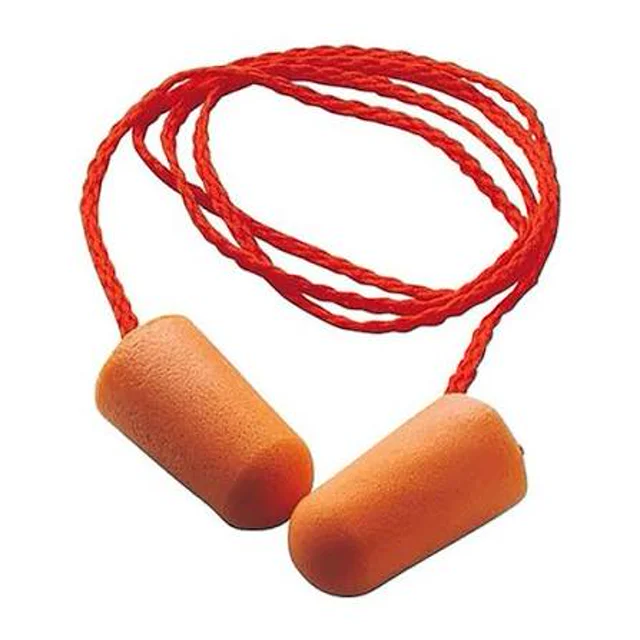
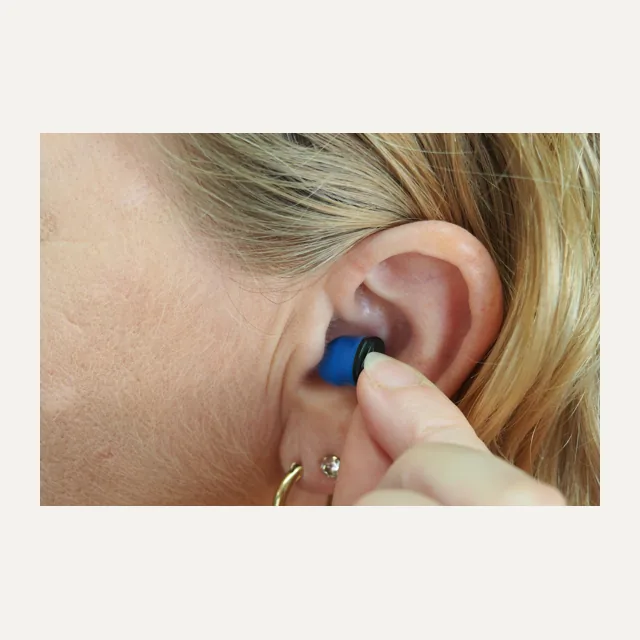
feat(catalog-images): apply the owner's photos to the AUD-004 and LUV-004 variants
Owner-reported: 'the ear plug (moldable) and split-leather gloves images are not showing, and I sent you the images'. Diagnosis: the owner's photos (Lote 2) were only applied to the base products (EPI-LUV-002, AUD-001); AUD-004 had a Pexels foam-plug-with-cord photo that contradicts 'moldable' and LUV-004 had a yellow synthetic glove photo. Both variants now use the owner's own photos (Protetor Auricular Plug Silicone.jpg, Luva de Raspa Premium.jpg), optimized with the same pipeline (640x640 WebP <=80KB, fit mode, no EXIF) and registered as Lote 3 in PHOTO_MAPPING.md and IMAGE_CREDITS.md. optimize_catalog_photos.py: archived/missing sources with an existing output now warn instead of failing, keeping re-runs idempotent. Validated with --verify (all 48 SKU outputs pass) and in the browser (tiles render the owner's photos at 640x640).

diff --git a/scripts/optimize_catalog_photos.py b/scripts/optimize_catalog_photos.py
@@ -31,6 +31,7 @@ from PIL import Image, ImageOps
 
 REPO_ROOT = Path(__file__).resolve().parents[1]
 SOURCE_DIR = REPO_ROOT / "frontend" / "public" / "brand"
+INBOX_DIR = REPO_ROOT / "assets-src" / "photos-inbox"
 OUTPUT_DIR = REPO_ROOT / "frontend" / "public" / "catalog" / "photos"
 
 SIZE = 640
@@ -91,6 +92,10 @@ PHOTO_SOURCES: list[tuple[Path, str, str, str]] = [
     (OUTPUT_DIR, "Óculos de Proteção Incolor.jpg", "OCV-001", "fit"),
     (OUTPUT_DIR, "Óculos de Proteção para Sobrepor.jpg", "OCV-005", "crop"),
     (OUTPUT_DIR, "Óculos de Segurança Antiembaçante.jpg", "OCV-004", "crop"),
+    # Lote 3 (assets-src/photos-inbox/): fotos fornecidas pelo dono — aplicadas
+    # tambem nas variantes (moldavel/plural) que aparecem no catalogo.
+    (INBOX_DIR, "Protetor Auricular Plug Silicone.jpg", "AUD-004", "fit"),
+    (INBOX_DIR, "Luva de Raspa Premium.jpg", "LUV-004", "fit"),
 ]
 
 
@@ -159,7 +164,12 @@ def _optimize_one(source_dir: Path, filename: str, sku: str, mode: str) -> bool:
     source = source_dir / filename
     target = OUTPUT_DIR / f"{sku.lower()}.webp"
     if not source.exists():
-        print(f"FALHA: origem ausente {source}")
+        # Origens antigas ja consumidas/arquivadas: se a saida ainda existe,
+        # apenas avisa (reexecucao idempotente); sem saida e sem origem e falha.
+        if target.exists():
+            print(f"AVISO: origem ausente {source} (saida existente mantida)")
+            return True
+        print(f"FALHA: origem ausente {source} e nenhuma saida em {target}")
         return False
     payload, quality = _encode(_compose(Image.open(source), mode))
     target.write_bytes(payload)

diff --git a/docs/illustrations/PHOTO_MAPPING.md b/docs/illustrations/PHOTO_MAPPING.md
@@ -85,7 +85,23 @@ objeto), `crop` = recorte quadrado central.
 | Óculos de Proteção para Sobrepor.jpg | OCV-005 | Alta | Nome exato; óculos amplo sobre armação. |
 | Óculos de Segurança Antiembaçante.jpg | OCV-004 | Alta | Nome exato; óculos amplo antiembaçante. |
 
-Cobertura resultante: **45 de 50 produtos com foto real**; ilustrações específicas
-remanescentes: LUV-004, RES-004, OCV-006 e LUV-009 (todos sem foto fornecida;
-LUV-004/RES-004 ativos). Nenhum produto ativo usa mais o fallback de categoria — que
-segue existindo como última rede de segurança (`resolve_product_image_path`).
+## Lote 3 — mesma foto do responsável aplicada nas variantes (2026-10-27)
+
+Relato do dono: "as imagens do protetor auricular de plug modável e luvas de raspa não
+estão aparecendo, sendo que te mandei as imagens". Diagnóstico: as fotos dele foram
+aplicadas apenas nos produtos-base do Lote 2 (EPI-LUV-002, AUD-001); **AUD-004 e LUV-004
+tinham fotos de outra origem (Pexels) que não correspondiam ao produto ("moldável" com
+plug de espuma com cordão)**. Decisão: usar a MESMA foto fornecida pelo responsável nas
+variantes — elas são variantes do mesmo produto demo (singular/plural/tipo). Pipeline
+idêntico (640×640 WebP ≤ 80 KB, modo `fit`: fotos 3:2, o recorte central cortaria o
+objeto). Saídas substituídas e verificadas (`--verify`: 640×640, sem EXIF, ≤ 80 KB).
+
+| Arquivo original | SKU | Confiança | Motivo / critério |
+|---|---|---|---|
+| Protetor Auricular Plug Silicone.jpg | AUD-004 | Alta | **Pedido explícito do dono** ("protetor auricular de plug modável" = "Protetor Auricular Plug Moldável"); a foto dele mostra plug de silicone moldável em uso — substitui a foto de Pexels (plug de espuma com cordão), que contradizia "moldável". |
+| Luva de Raspa Premium.jpg | LUV-004 | Alta | **Pedido explícito do dono** ("luvas de raspa" = "Luvas de Raspa Premium", plural); mesma foto já aplicada no EPI-LUV-002 (variantes do mesmo produto demo) — substitui a foto de Pexels amarela/sintética. |
+
+Cobertura resultante: **47 de 50 produtos com foto real**; ilustrações específicas
+remanescentes: RES-004, OCV-006 e LUV-009 (sem foto fornecida; RES-004 ativo). Nenhum
+produto ativo usa o fallback de categoria — que segue existindo como última rede de
+segurança (`resolve_product_image_path`).

diff --git a/docs/IMAGE_CREDITS.md b/docs/IMAGE_CREDITS.md
@@ -88,3 +88,16 @@ em `assets-src/photos-inbox/`.
 | ocv-001.webp | Óculos de Proteção Incolor.jpg | [PREENCHER] | [PREENCHER] | [PREENCHER] | [PREENCHER] |
 | ocv-005.webp | Óculos de Proteção para Sobrepor.jpg | [PREENCHER] | [PREENCHER] | [PREENCHER] | [PREENCHER] |
 | ocv-004.webp | Óculos de Segurança Antiembaçante.jpg | [PREENCHER] | [PREENCHER] | [PREENCHER] | [PREENCHER] |
+
+---
+
+## Lote 3 — variantes com a mesma foto do responsável (2026-10-27)
+
+A MESMA foto fornecida pelo responsável (já registrada no Lote 2) aplicada também nas
+variantes do produto, a pedido do dono ("ponha as imagens que lhe solicitei adequadamente
+nelas"). Origem/autor/licença: idênticos à entrada do Lote 2 do arquivo original.
+
+| Saída (SKU) | Arquivo original | Autor | source_url | Licença | license_url |
+|---|---|---|---|---|---|
+| aud-004.webp | Protetor Auricular Plug Silicone.jpg (mesma foto do Lote 2) | [PREENCHER] | [PREENCHER] | [PREENCHER] | [PREENCHER] |
+| luv-004.webp | Luva de Raspa Premium.jpg (mesma foto do Lote 2) | [PREENCHER] | [PREENCHER] | [PREENCHER] | [PREENCHER] |
